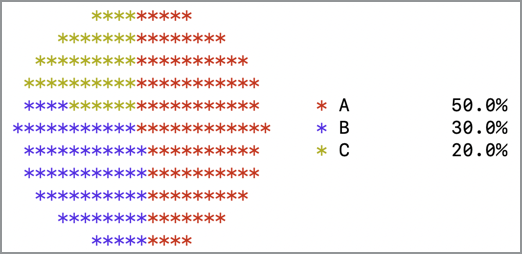
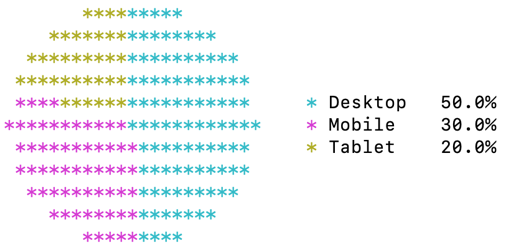
Update README organization and images
- Reorganize bar chart examples for better flow
- Move "With values" example before grouped/stacked sections
- Update pie chart screenshot
- Remove duplicate roadmap section (available in docs/status.md)

🤖 Generated with [Claude Code](https://claude.com/claude-code)

diff --git a/README.md b/README.md
@@ -193,6 +193,18 @@ Output:
 Q1  Q2  Q3  Q4
 ```
 
+**With values:**
+```bash
+termcharts bar 120 98 145 --labels "North,South,East" --show-values
+```
+
+Output:
+```
+North  ████████████████████████████████████████████████████████ 120.0
+South  ██████████████████████████████████████████████ 98.0
+East   ███████████████████████████████████████████████████████████████████ 145.0
+```
+
 **Grouped bar charts (multiple series side-by-side):**
 ```go
 // Library - Grouped bar chart
@@ -217,18 +229,6 @@ termcharts bar --series '[{"label":"2023","data":[10,20,30]},{"label":"2024","da
 ![Grouped Bar Chart Example](docs/images/bar-chart-grouped.png)
 
 *Screenshot shows grouped bars with different colors for each series.*
-
-**With values:**
-```bash
-termcharts bar 120 98 145 --labels "North,South,East" --show-values
-```
-
-Output:
-```
-North  ████████████████████████████████████████████████████████ 120.0
-South  ██████████████████████████████████████████████ 98.0
-East   ███████████████████████████████████████████████████████████████████ 145.0
-```
 
 **[→ Full Bar Chart Documentation](docs/bar-chart.md)**
 
@@ -322,50 +322,6 @@ Sales Trend
 - **Heatmaps** - 2D data visualization with color gradients
 - **Scatter Plots** - XY coordinate plotting
 - **Gauges** - Progress bars and percentage indicators
-
-## Roadmap
-
-### v0.1.0 - Core Library + Sparklines ✓
-- [x] Project scaffolding and build system
-- [x] Core types and interfaces
-- [x] Terminal utilities (size, color, Unicode detection)
-- [x] Sparkline implementation with comprehensive tests (95% coverage)
-- [x] Sparkline CLI command (`termcharts spark`)
-- [x] Unit tests for all core components (95% coverage)
-- [x] GitHub Actions CI/CD (multi-platform, multi-version testing)
-- [x] Complete API documentation
-
-### v0.2.0 - Bar Charts ✓
-- [x] Horizontal bar charts
-- [x] Vertical bar charts
-- [x] Labels and axis rendering
-- [x] Value display option
-- [x] CLI `bar` subcommand
-- [x] Comprehensive tests and documentation
-
-### v0.3.0 - Pie Charts ✓
-- [x] Pie chart with Unicode/ASCII modes
-- [x] Percentage and value display
-- [x] Legend and color coding
-- [x] CLI `pie` subcommand
-- [x] Comprehensive tests and documentation
-
-### v0.4.0 - Line Charts ✓
-- [x] ASCII line charts with box-drawing characters
-- [x] Braille high-resolution charts
-- [x] Multi-series support with legend
-- [x] CLI `line` subcommand
-- [x] Comprehensive tests and documentation
-
-### v0.5.0 - Grouped & Stacked Bar Charts ✓
-- [x] Grouped bar charts (multiple series side-by-side)
-- [x] Stacked bar charts (series stacked on top of each other)
-- [x] Legend support for multi-series charts
-- [x] CLI `--grouped`, `--stacked`, `--legend` flags
-- [x] CLI integration tests
-- [x] Comprehensive tests and documentation
-
-See [docs/status.md](docs/status.md) for detailed status and milestones.
 
 ## Documentation
 
